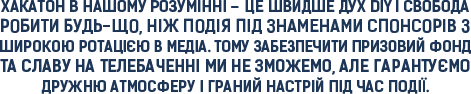
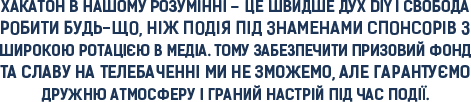
fixed images

diff --git a/stylesheets/app2.css b/stylesheets/app2.css
@@ -1,4 +1,4 @@
-@charset "US-ASCII";
+@charset "UTF-8";
 /*! normalize.css v2.1.1 | MIT License | git.io/normalize */
 /* ==========================================================================
    HTML5 display definitions
@@ -439,7 +439,7 @@ table {
 html, body {
   font-family: "kelson_sans_ruregular", "Helvetica Neue", "Helvetica", Arial, sans-serif;
   margin: 0;
-  min-width: 471px;
+  min-width: 472px;
   width: 100%;
   height: 100%;
   min-height: 600px;
@@ -502,8 +502,8 @@ html, body {
 .slide1 h1 {
   margin: 0;
   text-indent: -99999px;
-  height: 64px;
-  width: 369px;
+  height: 69px;
+  width: 372px;
   background-image: url("../images/slide1/title.png");
 }
 /* line 82, ../sass/_main2.scss */
@@ -518,8 +518,8 @@ html, body {
 }
 /* line 89, ../sass/_main2.scss */
 .slide1 p.second-line {
-  height: 44px;
-  width: 372px;
+  height: 47px;
+  width: 371px;
   background-image: url("../images/slide1/second-line.png");
 }
 /* line 95, ../sass/_main2.scss */
@@ -582,7 +582,7 @@ html, body {
 /* line 146, ../sass/_main2.scss */
 .slide2 p.first-line {
   width: 471px;
-  height: 94px;
+  height: 102px;
   background: url("../images/slide2/first-line.png");
 }
 /* line 151, ../sass/_main2.scss */
@@ -593,7 +593,7 @@ html, body {
 }
 /* line 156, ../sass/_main2.scss */
 .slide2 p.third-line {
-  width: 473px;
+  width: 472px;
   height: 27px;
   background: url("../images/slide2/third-line.png");
 }
@@ -605,7 +605,7 @@ html, body {
 }
 /* line 166, ../sass/_main2.scss */
 .slide2 p.fifth-line {
-  width: 471px;
+  width: 472px;
   height: 32px;
   background: url("../images/slide2/fifth-line.png");
 }

diff --git a/sass/_main2.scss b/sass/_main2.scss
@@ -20,7 +20,7 @@
 html, body {
   font-family: $regular-font-family;
   margin:0;
-  min-width: 471px;
+  min-width: 472px;
   width:100%;
   height:100%;
   min-height: 600px;
@@ -75,8 +75,8 @@ html, body {
   h1 {
     margin:0;
     text-indent: -99999px;
-    height:64px;
-    width:369px;
+    height:69px;
+    width:372px;
     background-image: url("../images/slide1/title.png");
   }
   p {
@@ -87,8 +87,8 @@ html, body {
     background-image: url("../images/slide1/first-line.png");
    }
    &.second-line {
-    height:44px;
-    width: 372px;
+    height:47px;
+    width: 371px;
     background-image: url("../images/slide1/second-line.png");
    }
   }
@@ -145,7 +145,7 @@ html, body {
     text-indent: -99999px;
     &.first-line {
       width:471px;
-      height:94px;
+      height:102px;
       background: url("../images/slide2/first-line.png");
     }
     &.second-line {
@@ -154,7 +154,7 @@ html, body {
       background: url("../images/slide2/second-line.png");
     }
     &.third-line {
-      width:473px;
+      width:472px;
       height:27px;
       background: url("../images/slide2/third-line.png");
     }
@@ -164,7 +164,7 @@ html, body {
       background: url("../images/slide2/highlight.png");
     }
     &.fifth-line {
-      width:471px;
+      width:472px;
       height:32px;
       background: url("../images/slide2/fifth-line.png");
     }

diff --git a/index2.html b/index2.html
@@ -3,13 +3,13 @@
 <!--[if gt IE 8]><!--> <html class="no-js" lang="en" > <!--<![endif]-->
 <head>
   <meta charset="utf-8">
-  <meta name="viewport" content="width=471px">
+  <meta name="viewport" content="width=472px">
 
   <title>IF HAKATHON</title>
   <link rel="stylesheet" href="fonts/kelson/kelson.css">
   <link rel="stylesheet" href="fonts/metropolis/metropolis1920.css">
   <link rel="stylesheet" href="stylesheets/app2.css">
-  <link href="stylesheets/resp.css" media="screen and (max-width: 470px)" rel="stylesheet" type="text/css" />
+  <link href="stylesheets/resp.css" media="screen and (max-width: 472px)" rel="stylesheet" type="text/css" />
   <script src="javascripts/vendor/custom.modernizr.js"></script>
 </head>
 <body>
